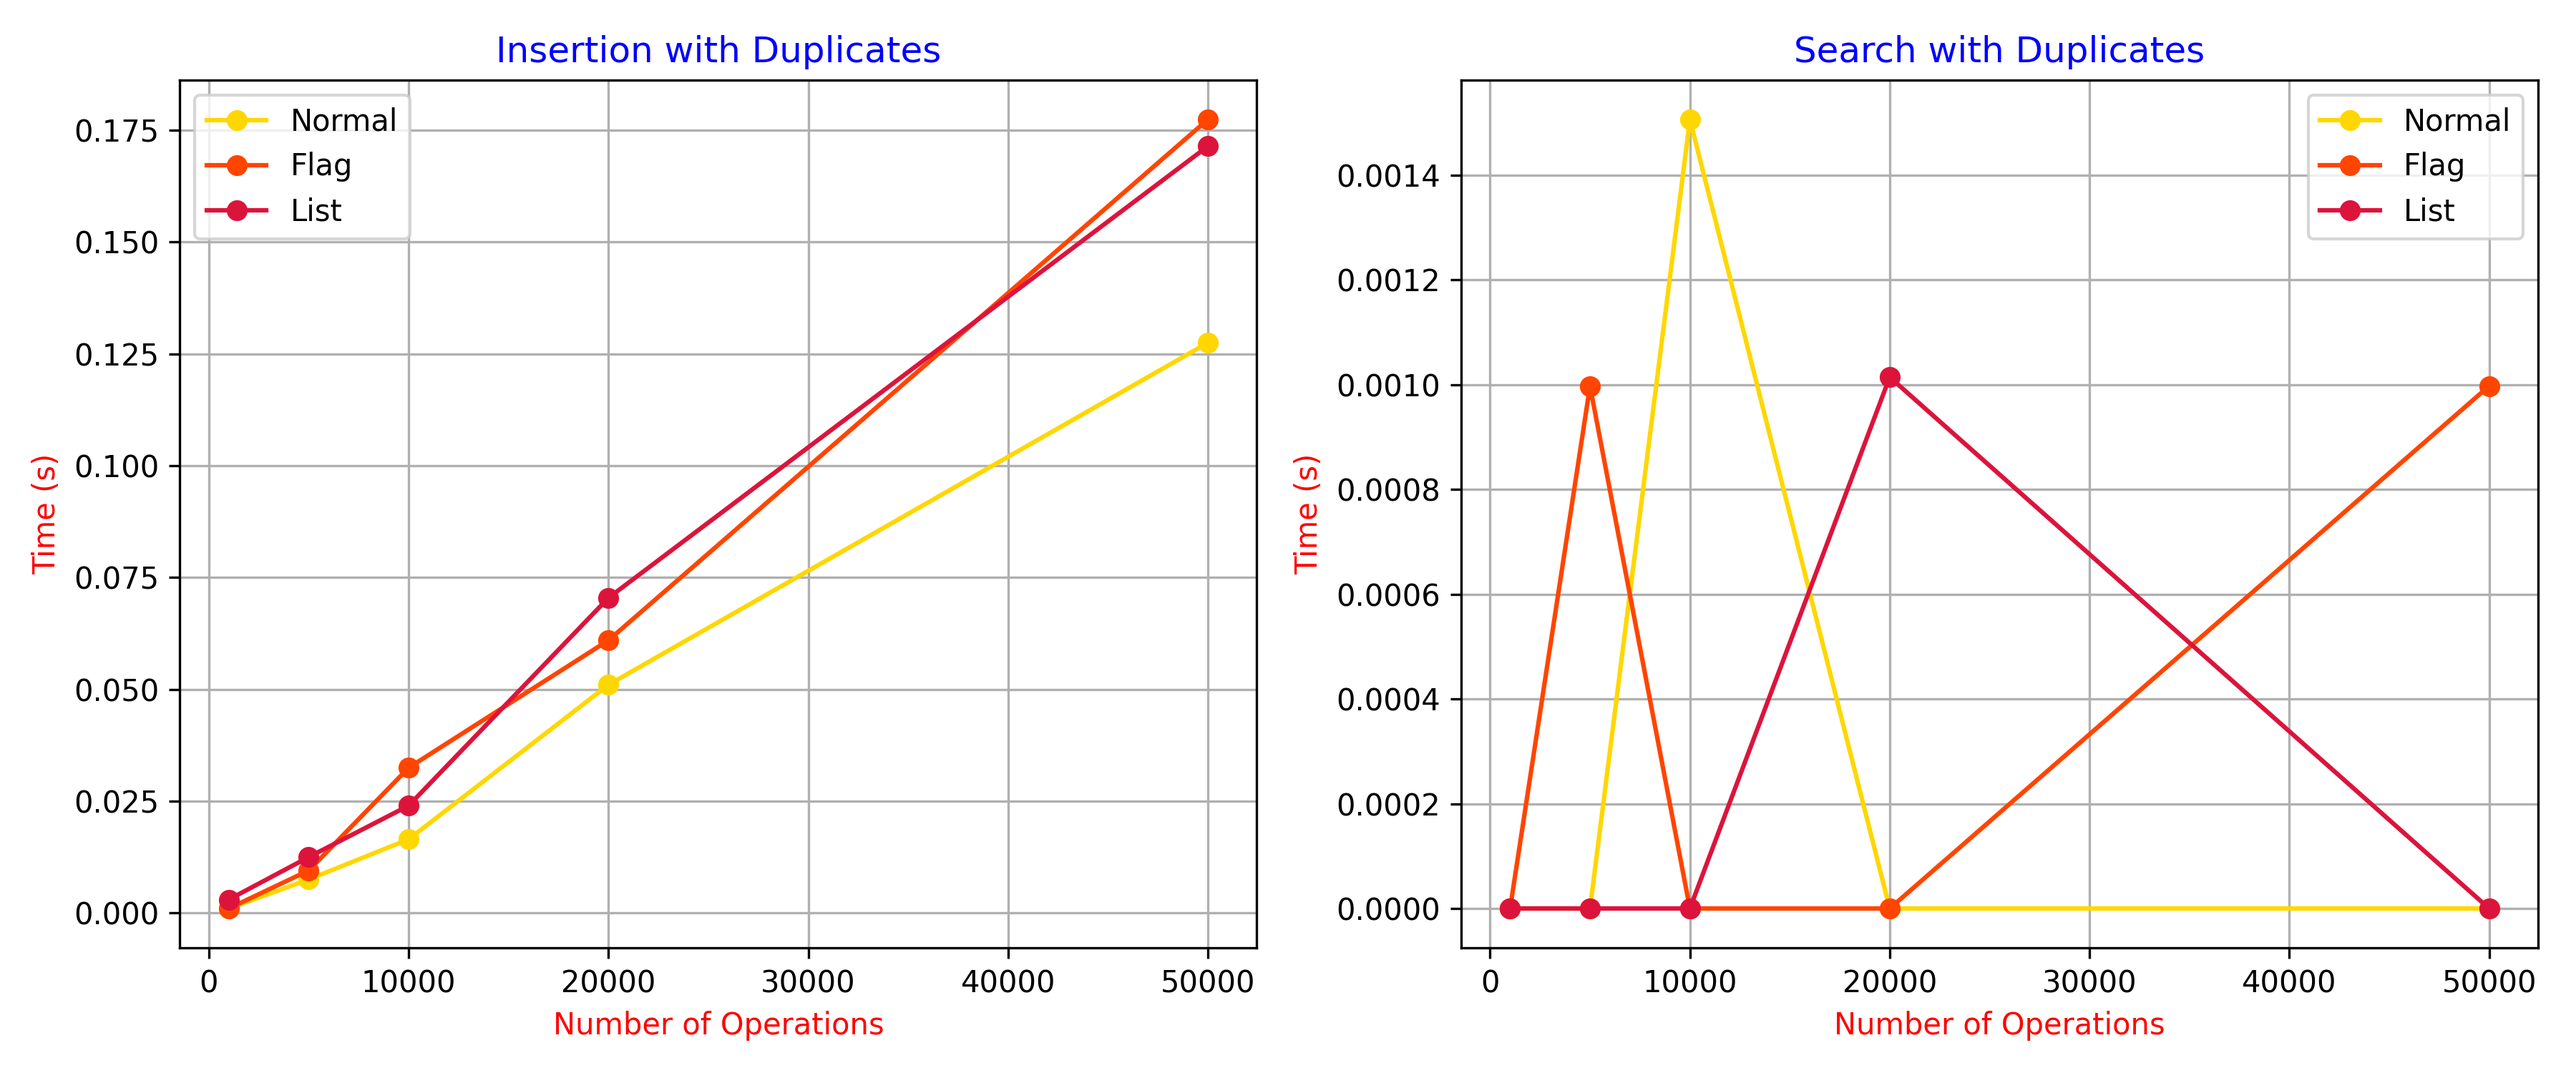
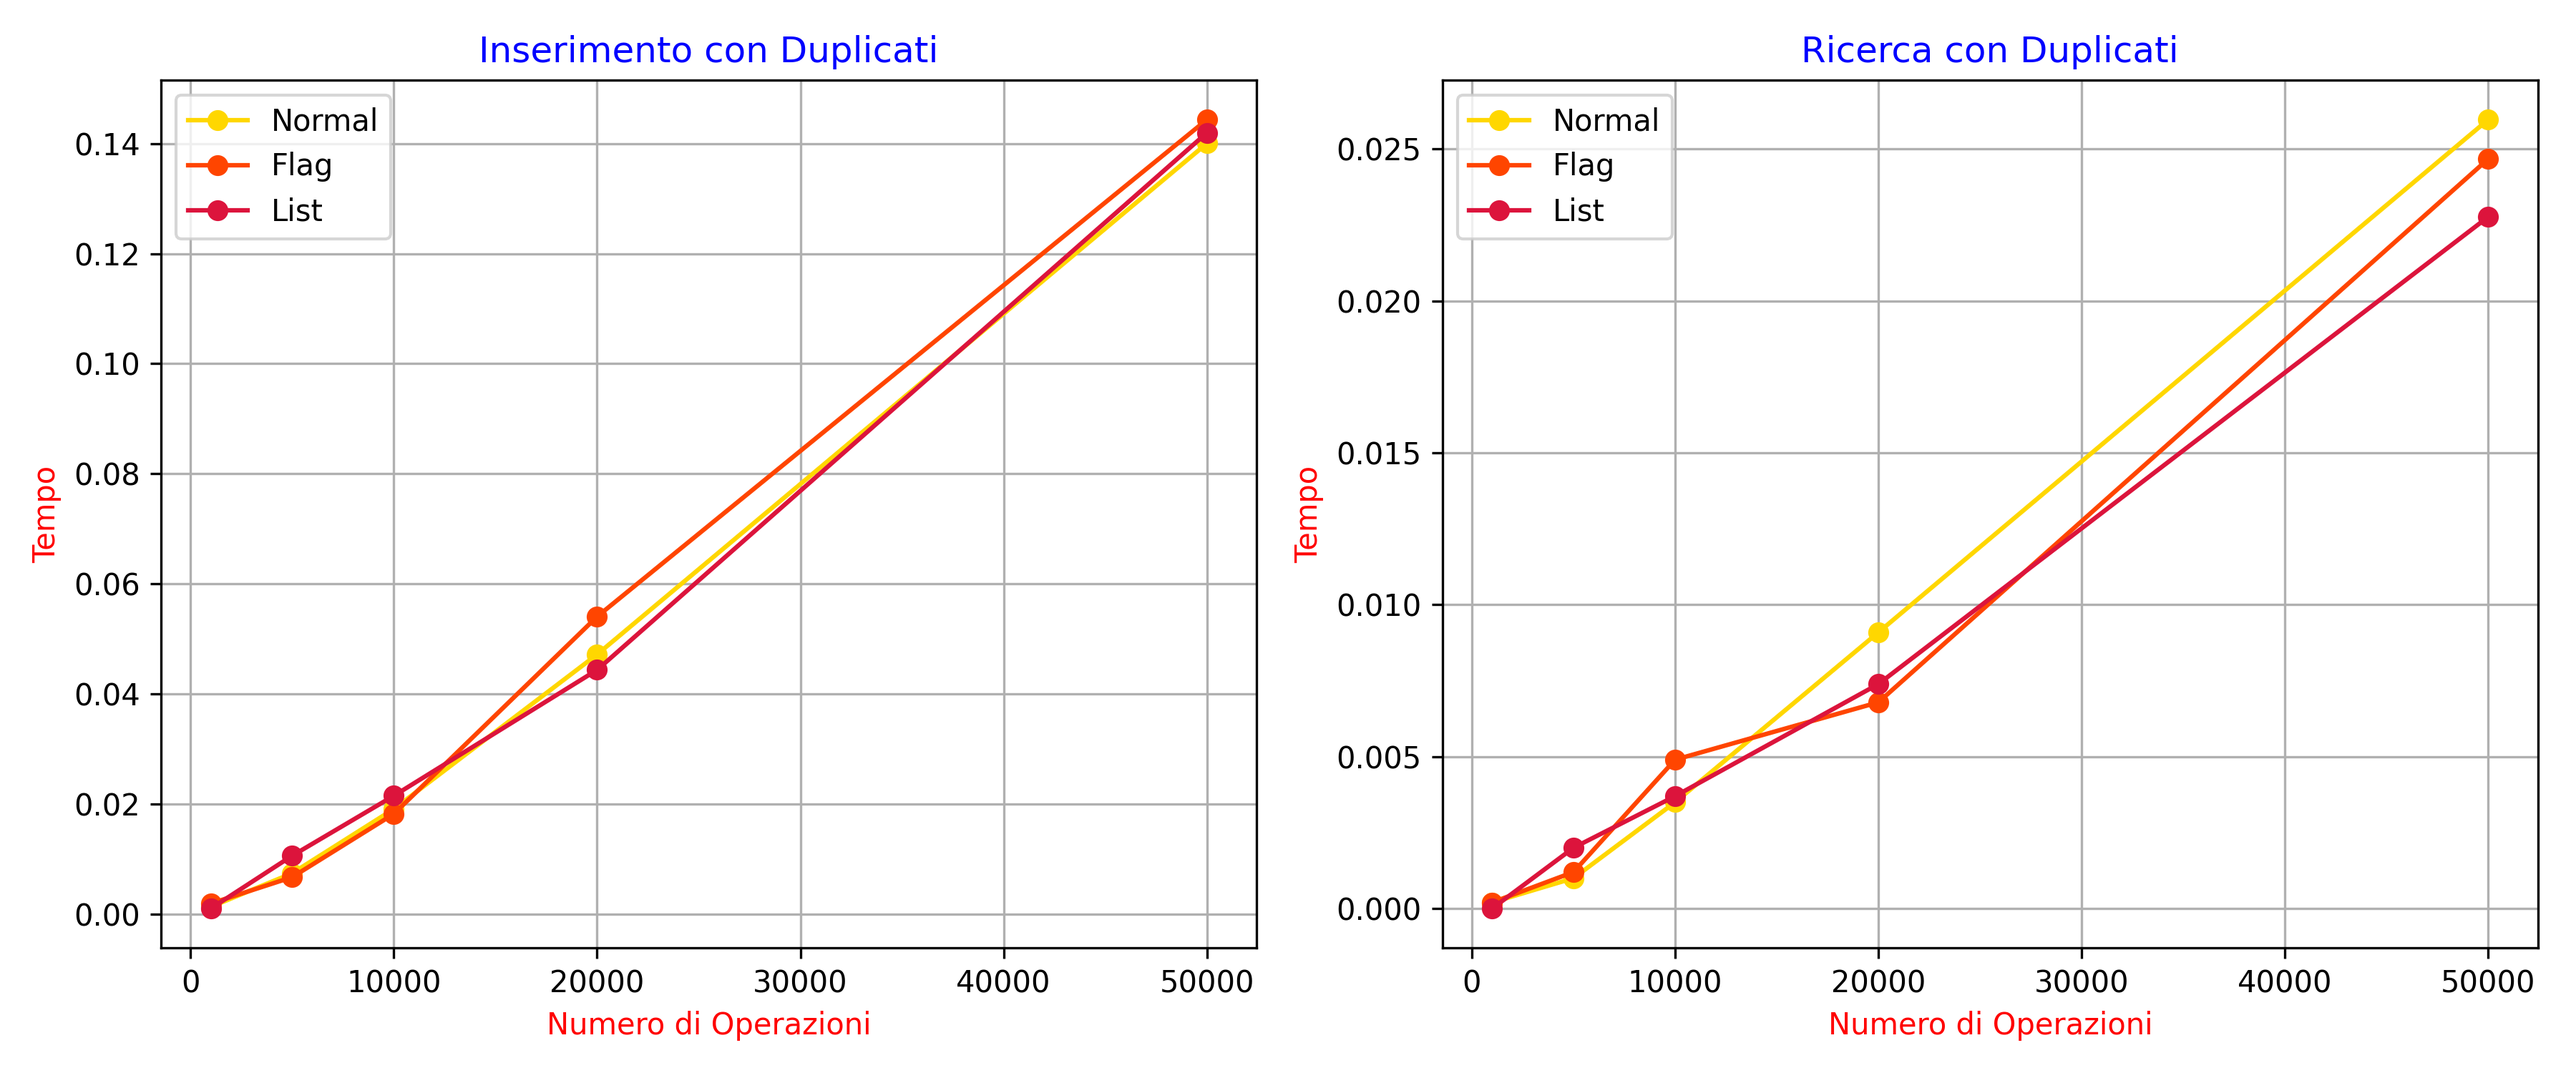
benchmark con media

diff --git a/benchmark.py b/benchmark.py
@@ -1,5 +1,6 @@
 import time
 import random
+import statistics
 
 from abr_normal import ABRNormal
 from abr_flag import ABRFlag
@@ -12,25 +13,29 @@ def generate_data(n, with_duplicates=False):
     random.shuffle(values)
     return values
 
-def measure_time(abr_class, input_data, n_tests=100):
-    abr = abr_class()
+def measure_time(abr_class, input_data, n_repeats=5):
+    insertion_times = []
+    search_times = []
 
-    # Insertion time
-    t0 = time.time()
-    for value in input_data:
-        abr.insert(value)
-    t1 = time.time()
-    insertion_time = t1 - t0
+    for _ in range(n_repeats):
+        abr = abr_class()
+        # Insertion
+        t0 = time.time()
+        for value in input_data:
+            abr.insert(value)
+        t1 = time.time()
+        insertion_times.append(t1 - t0)
 
-    # Search time
-    keys_to_search = random.sample(input_data, min(n_tests, len(input_data)))
-    t0 = time.time()
-    for key in keys_to_search:
-        abr.search(key)
-    t1 = time.time()
-    search_time = t1 - t0
+        # Search (20% dei dati)
+        keys_to_search = random.sample(input_data, max(1, len(input_data) // 5))
+        t0 = time.time()
+        for key in keys_to_search:
+            abr.search(key)
+        t1 = time.time()
+        search_times.append(t1 - t0)
 
-    return insertion_time, search_time
+    return statistics.mean(insertion_times), statistics.mean(search_times)
+
 
 
 def run_tests():
@@ -69,9 +74,9 @@ def generate_graph_with_duplicates(results_dict):
     plt.plot(input_sizes, ins_normal, 'o-', label='Normal', color='gold')
     plt.plot(input_sizes, ins_flag, 'o-', label='Flag', color='orangered')
     plt.plot(input_sizes, ins_list, 'o-', label='List', color='crimson')
-    plt.title("Insertion with Duplicates", color='blue')
-    plt.xlabel("Number of Operations", color='red')
-    plt.ylabel("Time (s)", color='red')
+    plt.title("Inserimento con Duplicati", color='blue')
+    plt.xlabel("Numero di Operazioni", color='red')
+    plt.ylabel("Tempo", color='red')
     plt.grid(True)
     plt.legend()
 
@@ -80,9 +85,9 @@ def generate_graph_with_duplicates(results_dict):
     plt.plot(input_sizes, search_normal, 'o-', label='Normal', color='gold')
     plt.plot(input_sizes, search_flag, 'o-', label='Flag', color='orangered')
     plt.plot(input_sizes, search_list, 'o-', label='List', color='crimson')
-    plt.title("Search with Duplicates", color='blue')
-    plt.xlabel("Number of Operations", color='red')
-    plt.ylabel("Time (s)", color='red')
+    plt.title("Ricerca con Duplicati", color='blue')
+    plt.xlabel("Numero di Operazioni", color='red')
+    plt.ylabel("Tempo", color='red')
     plt.grid(True)
     plt.legend()
 
@@ -113,9 +118,9 @@ def benchmark_without_duplicates():
     plt.plot(input_sizes, ins_normal, 'o-', label='Normal', color='gold')
     plt.plot(input_sizes, ins_flag, 'o-', label='Flag', color='orangered')
     plt.plot(input_sizes, ins_list, 'o-', label='List', color='crimson')
-    plt.title("Insertion without Duplicates", color='blue')
-    plt.xlabel("Number of Operations", color='red')
-    plt.ylabel("Time (s)", color='red')
+    plt.title("Inserimento senza Duplicati", color='blue')
+    plt.xlabel("Numero di Operazioni", color='red')
+    plt.ylabel("Tempo", color='red')
     plt.grid(True)
     plt.legend()
 
@@ -124,9 +129,9 @@ def benchmark_without_duplicates():
     plt.plot(input_sizes, search_normal, 'o-', label='Normal', color='gold')
     plt.plot(input_sizes, search_flag, 'o-', label='Flag', color='orangered')
     plt.plot(input_sizes, search_list, 'o-', label='List', color='crimson')
-    plt.title("Search without Duplicates", color='blue')
-    plt.xlabel("Number of Operations", color='red')
-    plt.ylabel("Time (s)", color='red')
+    plt.title("Ricerca senza Duplicati", color='blue')
+    plt.xlabel("Numero di Operazioni", color='red')
+    plt.ylabel("Tempo", color='red')
     plt.grid(True)
     plt.legend()
 
